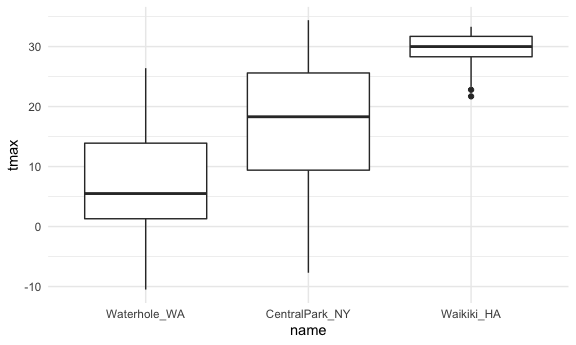
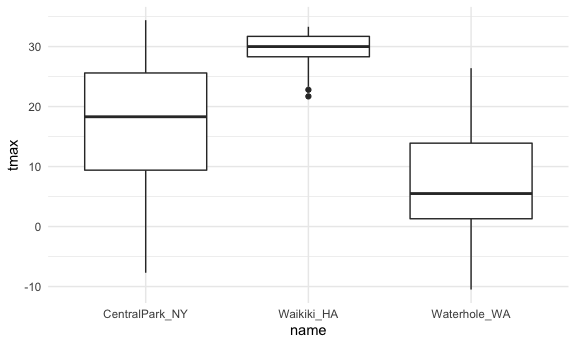
update of 4.2 after video course

diff --git a/viz_part2.md b/viz_part2.md
@@ -60,6 +60,8 @@ weather_df =
 
 ## start with a familiar one
 
+**scale\_x\_continuous**
+
 ``` r
 weather_df %>% 
   ggplot(aes(x = tmin, y = tmax, color = name)) +
@@ -70,13 +72,13 @@ weather_df %>%
     y = "Maximum daily temp (C)",
     caption = "Data from rnoaa package with three stations"
   ) +
-  scale_x_continuous(
+  scale_x_continuous(  
     breaks = c(-15, 0 ,15),
-    labels = c("-15 C", "0", "15C")
+    labels = c("-15 C", "0", "15C")  ## Position scales for continuous data (x & y)
   ) +
   scale_y_continuous(
     trans = "sqrt",
-    position = "right"
+    position = "right"  ## put the y axis at the right of the picture
   )
 ```
 
@@ -88,7 +90,7 @@ weather_df %>%
 
 ![](viz_part2_files/figure-gfm/unnamed-chunk-3-1.png)<!-- -->
 
-Color scales
+Color scales **scale\_color\_hue**
 
 ``` r
 weather_df %>% 
@@ -101,15 +103,16 @@ weather_df %>%
     caption = "Data from rnoaa package with three stations"
   ) + 
   scale_color_hue(
-    name = "location",  ## for selected variable?
+    name = "location",  ## you can change the name above `legend` using this function
     h = c(100, 300)
     )
 ```
 
     ## Warning: Removed 15 rows containing missing values (geom_point).
 
-![](viz_part2_files/figure-gfm/unnamed-chunk-4-1.png)<!-- --> Better
-using package viridis!
+![](viz_part2_files/figure-gfm/unnamed-chunk-4-1.png)<!-- -->
+
+Better using package **viridis**!
 
 ``` r
 library(viridis)
@@ -134,6 +137,26 @@ weather_df %>%
 
 ![](viz_part2_files/figure-gfm/unnamed-chunk-5-1.png)<!-- -->
 
+``` r
+weather_df %>% 
+  ggplot(aes(x = tmin, y = tmax, color = name)) +
+  geom_point(alpha = .3) +
+  labs(
+    title = "Temperature at three stations",
+    x = "Mininmum daily temp (C)",
+    y = "Maximum daily temp (C)",
+    caption = "Data from rnoaa package with three stations"
+  ) + 
+  viridis::scale_colour_viridis(
+    name = "location",
+    discrete = TRUE ## Generate a discrete palette? (default: FALSE - generate continuous palette).
+  )    
+```
+
+    ## Warning: Removed 15 rows containing missing values (geom_point).
+
+![](viz_part2_files/figure-gfm/unnamed-chunk-5-2.png)<!-- -->
+
 ## Themes
 
 ``` r
@@ -154,8 +177,13 @@ weather_df %>%
 
     ## Warning: Removed 15 rows containing missing values (geom_point).
 
-![](viz_part2_files/figure-gfm/unnamed-chunk-6-1.png)<!-- --> use
-ggthemes package …
+![](viz_part2_files/figure-gfm/unnamed-chunk-6-1.png)<!-- -->
+
+you can also use `theme_minimal` (preferred), `theme_classic`, and even
+you could use `ggthemes::` package and try various themes contain in
+`ggthemes` package.
+
+use `ggthemes` package …
 
 ``` r
 library(viridis)
@@ -190,14 +218,17 @@ weather_df %>%
   ) + 
   scale_colour_viridis_d() +
   theme_minimal() +
-  theme(legend.position = "bottom")
+  theme(legend.position = "bottom") ## if I want to do `theme_minimal` and change legend position both, I should put the minimal before legend, because minimal will COVER EVERYTHING before it!!
 ```
 
     ## Warning: Removed 15 rows containing missing values (geom_point).
 
 ![](viz_part2_files/figure-gfm/unnamed-chunk-8-1.png)<!-- -->
 
-which is always put at the beginning of our rmd file to setting things
+## Setting options
+
+which is always put at the very beginning of our rmd file to setting
+things
 
 ``` r
 library(tidyverse)
@@ -219,7 +250,7 @@ scale_colour_discrete = scale_colour_viridis_d
 scale_fill_discrete = scale_fill_viridis_d
 ```
 
-## `data` in geoms
+## `data` in geoms (DATA ARRANGEMENT)
 
 ``` r
 central_park = 
@@ -233,12 +264,16 @@ weather_df %>%
 waikiki %>% 
   ggplot(aes(x = date, y = tmax, color = name)) +
   geom_point() +
-  geom_line(data = central_park)  ## split a data set in two
+  geom_line(data = central_park)  ## split a data set in two by adding a new graph
 ```
 
     ## Warning: Removed 3 rows containing missing values (geom_point).
 
 <img src="viz_part2_files/figure-gfm/unnamed-chunk-10-1.png" width="90%" />
+
+putting `data =` in the `geom` function can using a different data set!
+If you just use `geom_line()` it will still work with `waikiki` data
+set.
 
 ## `patchwork`
 
@@ -277,9 +312,22 @@ ggp_tmax_date =
 
 <img src="viz_part2_files/figure-gfm/unnamed-chunk-11-1.png" width="90%" />
 
-## data manipulation
+## Data Manipulation
 
 quick example on factors
+
+compare two plots, the second one rearrange the name according to the
+tmax value.
+
+``` r
+weather_df %>% 
+  ggplot(aes(x = name, y = tmax)) +
+  geom_boxplot()
+```
+
+    ## Warning: Removed 3 rows containing non-finite values (stat_boxplot).
+
+<img src="viz_part2_files/figure-gfm/unnamed-chunk-12-1.png" width="90%" />
 
 ``` r
 weather_df %>% 
@@ -292,4 +340,58 @@ weather_df %>%
 
     ## Warning: Removed 3 rows containing non-finite values (stat_boxplot).
 
-<img src="viz_part2_files/figure-gfm/unnamed-chunk-12-1.png" width="90%" />
+<img src="viz_part2_files/figure-gfm/unnamed-chunk-12-2.png" width="90%" />
+
+``` r
+weather_df %>% 
+  mutate(
+    name = factor(name), ## change location names from `chr` to `fct` variables.
+    name = forcats::fct_relevel(name, c("Waikiki_HA")) ## will be reached out in the future
+  ) %>% 
+  ggplot(aes(x = name, y = tmax)) +
+  geom_boxplot()
+```
+
+    ## Warning: Removed 3 rows containing non-finite values (stat_boxplot).
+
+<img src="viz_part2_files/figure-gfm/unnamed-chunk-12-3.png" width="90%" />
+
+`fct_reorder()` function
+
+What about tamx and tmin …
+
+``` r
+weather_df %>% 
+  pivot_longer(
+    tmax:tmin,
+    names_to = "obs",
+    values_to = "temperature"
+  ) %>% 
+  ggplot(aes(x = temperature, fill = obs)) +  ## `color = obs` is also ok
+  geom_density(alpha = .3) +
+  facet_grid(. ~ name)
+```
+
+    ## Warning: Removed 18 rows containing non-finite values (stat_density).
+
+<img src="viz_part2_files/figure-gfm/unnamed-chunk-13-1.png" width="90%" />
+
+``` r
+pulse_data = 
+  haven::read_sas("./data/public_pulse_data.sas7bdat") %>%
+  janitor::clean_names() %>%
+  pivot_longer(
+    bdi_score_bl:bdi_score_12m,
+    names_to = "visit",
+    values_to = "bdi",
+    names_prefix = "bdi_score_"
+  ) %>% 
+  mutate(visit = recode(visit, "bl" = "00m"))
+  
+ggplot(pulse_data, aes(x = visit, y = bdi)) + 
+  geom_boxplot()
+```
+
+    ## Warning: Removed 879 rows containing non-finite values (stat_boxplot).
+
+<img src="viz_part2_files/figure-gfm/unnamed-chunk-14-1.png" width="90%" />
